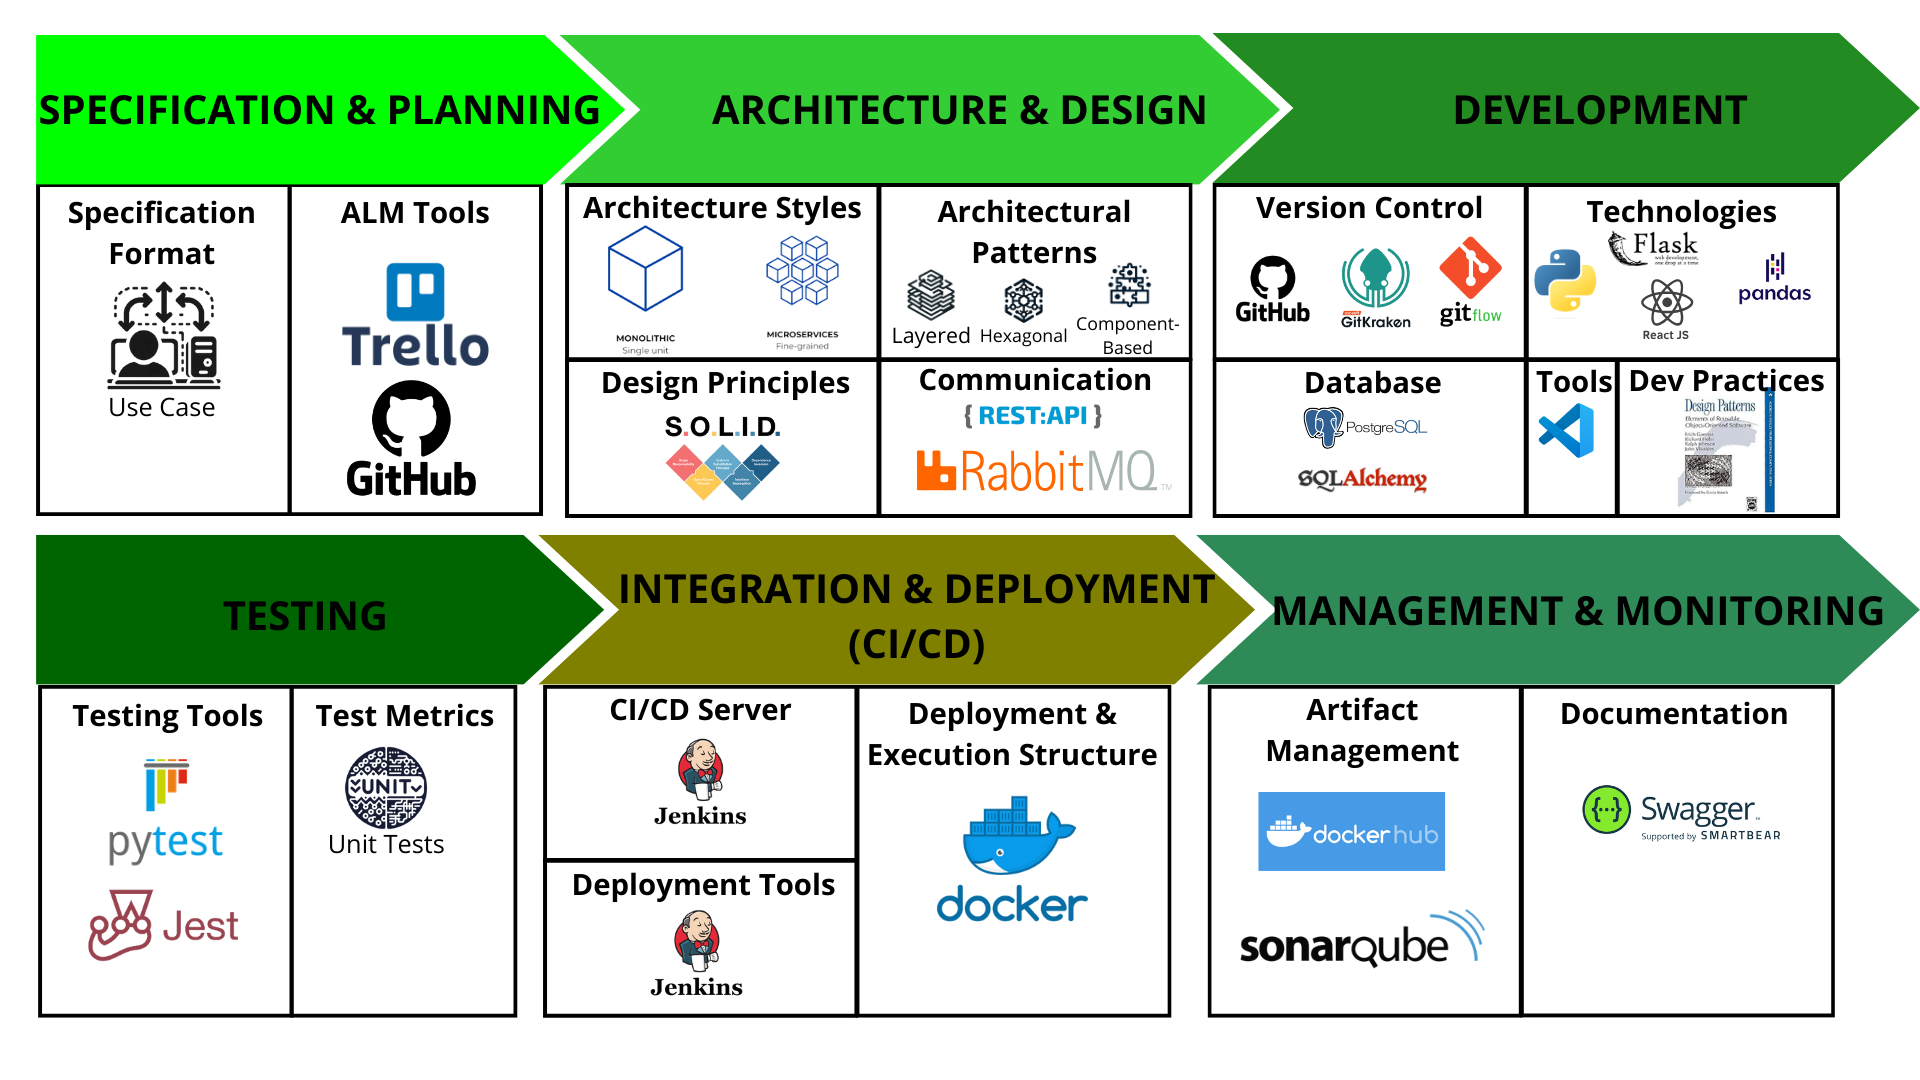
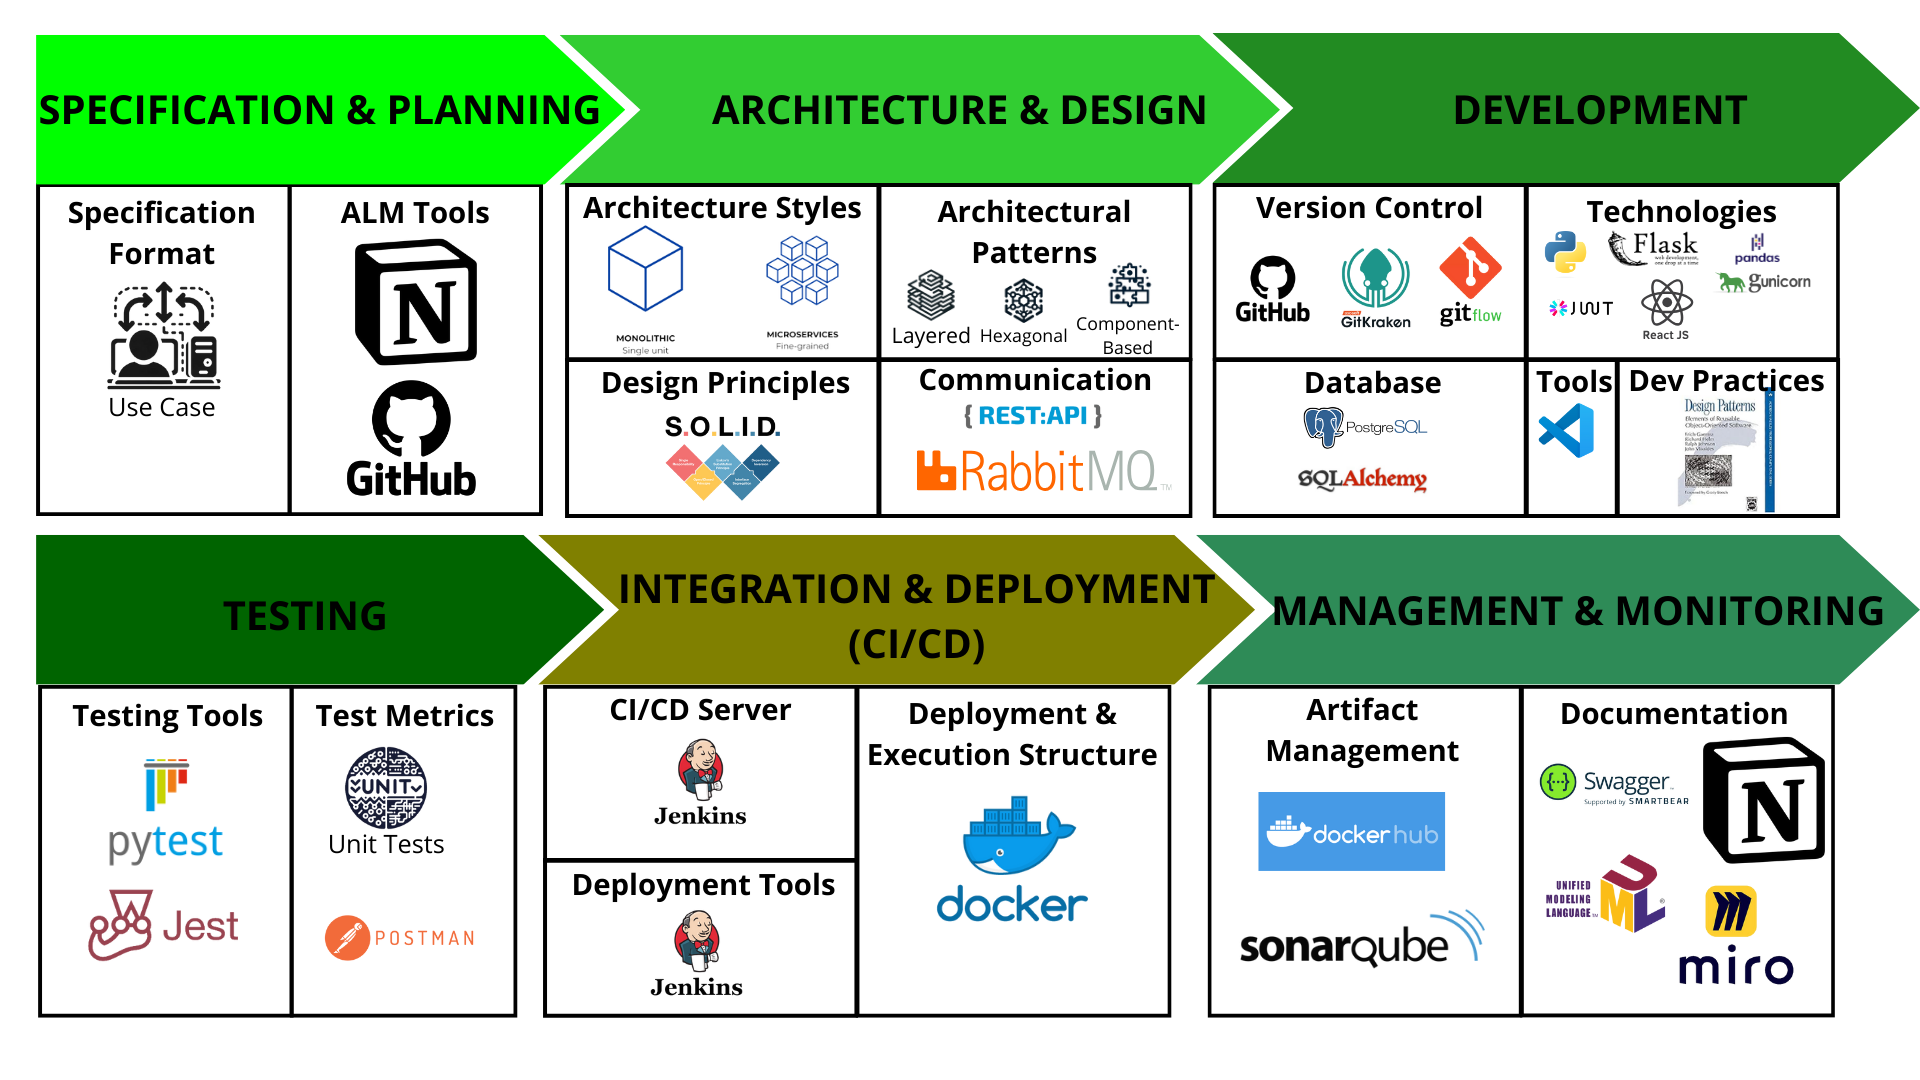
Melhoria nas seções de ALM e Documentações.
Foram adotadas maneiras diferentes de abordar a parte de ALM e Documentação, de forma que se passe a utilizar o notion.

diff --git a/specifications/fintrackr-docs-latex-project/Textuais/Capitulo02.tex b/specifications/fintrackr-docs-latex-project/Textuais/Capitulo02.tex
@@ -35,35 +35,37 @@ O projeto \textit{Fintrackr}, embora seja de pequeno porte, tem uma complexidade
 Os Casos de Uso oferecem uma representação clara das funções e interações do sistema, facilitando a comunicação entre desenvolvedores, stakeholders e usuários. Esta abordagem detalhada garante que todas as nuances e requisitos do \textit{Fintrackr} sejam capturados e desenvolvidos de forma eficaz. Ao adotar Casos de Uso, garantimos uma compreensão profunda das necessidades do usuário e uma implementação sistemática dessas necessidades.           
 
 \section{Ferramentas de ALM}
-            
+
 \begin{table}[ht]
 	\centering
 	\resizebox{\textwidth}{!}{%
-		\begin{tabular}{|c|c|c|c|c|}
+		\begin{tabular}{|c|c|c|c|c|c|}
 			\hline
-			\multirow{2}{*}{\textbf{Critério}} & \multicolumn{4}{c|}{\textbf{Ferramenta}} \\ \cline{2-5} 
-			                                       & \textbf{Jira}             & \textbf{Trello}        & \textbf{Tuleap}         & \textbf{GitLab}           \\ \hline
+			\multirow{2}{*}{\textbf{Critério}} & \multicolumn{5}{c|}{\textbf{Ferramenta}} \\ \cline{2-6} 
+			                                   & \textbf{Jira}             & \textbf{Trello}        & \textbf{Tuleap}         & \textbf{GitLab}         & \textbf{Notion}           \\ \hline
 						                        
-			\multirow{2}{*}{\textbf{Quando Usar}}  & Projetos ágeis,          & Projetos simples,      & Desenvolvimento ágil,  & Desenvolvimento e         \\
-			                                       & de médio a grande porte. & visualização Kanban. & integração contínua. & integração contínua.   \\ 
-			                                       &                           &                        & projetos open source.   &                           \\ \hline
+			\multirow{2}{*}{\textbf{Quando Usar}}  & Projetos ágeis,          & Projetos simples,      & Desenvolvimento ágil,  & Desenvolvimento e     & Geração e controle de     \\
+			                                       & de médio a grande porte. & visualização Kanban. & integração contínua. & integração contínua. & tarefas, visões múltiplas. \\ 
+			                                       &                           &                        & projetos open source.   &                       & do mesmo datasource.      \\ \hline
 						                        
-			\multirow{4}{*}{\textbf{Benefícios}}  & Flexível, integrações  & Simples, intuitivo,    & Open source,            & Integração contínua,   \\
-			                                       & amplas, poderoso.         & flexível.             & personalizável.        & gestão de código.       \\
-			                                       &                           &                        &                         & gerenciamento de projeto. \\ 
-			                                       &                           &                        &                         &                           \\ \hline
+			\multirow{4}{*}{\textbf{Benefícios}}    & Flexível, integrações  & Simples, intuitivo,    & Open source,            & Integração contínua, & Facilidade na geração e    \\
+			                                       & amplas, poderoso.         & flexível.             & personalizável.        & gestão de código.     & controle de tarefas.       \\
+			                                       &                           &                        &                         & gerenciamento de projeto. &                           \\
+			                                       &                           &                        &                         &                       &                           \\ \hline
 						                        
-			\multirow{4}{*}{\textbf{Desvantagens}} & Curva de aprendizado      & Pode ser simplista     & Pode ser complexo       & Pode ser sobrecarregado   \\
-			                                       & íngreme, pode ser caro.  & para grandes projetos. & para novatos.           & para projetos menores.    \\
-			                                       &                           &                        &                         &                           \\ 
-			                                       &                           &                        &                         &                           \\ \hline
+			\multirow{4}{*}{\textbf{Desvantagens}} & Curva de aprendizado      & Pode ser simplista     & Pode ser complexo       & Pode ser sobrecarregado & -                         \\
+			                                       & íngreme, pode ser caro.  & para grandes projetos. & para novatos.           & para projetos menores. &                           \\
+			                                       &                           &                        &                         &                       &                           \\ 
+			                                       &                           &                        &                         &                       &                           \\ \hline
 		\end{tabular}%
 	}
-	\caption{Comparação entre Jira, Trello, Tuleap e GitLab}
+	\caption{Comparação entre Jira, Trello, Tuleap, GitLab e Notion}
 	\label{tab:tool_comparison}
 \end{table}          
-    
-Dada a natureza do projeto \textit{Fintrackr}, a seleção de ferramentas para gerenciamento e desenvolvimento é crucial. O Trello, com sua versão gratuita e simplicidade, surge como uma escolha primordial. Nossa equipe já possui familiaridade com o Trello, facilitando sua integração ao fluxo de trabalho. Além disso, adotamos um \href{https://github.com/ThiagoSchumann/fintrackr-docs}{repositório no GitHub} para centralizar documentação e artefatos, oferecendo uma visão unificada do projeto. Essa combinação de Trello e GitHub é ideal para as necessidades do \textit{Fintrackr}.
+        
+
+Dada a natureza do projeto \textit{Fintrackr}, a seleção de ferramentas para gerenciamento e desenvolvimento é crucial. Optamos pelo Notion devido à sua facilidade na geração e controle de tarefas, permitindo várias visões diferentes do mesmo datasource. Além disso, o Notion também nos permite criar documentações detalhadas para nossos projetos. Complementando nossa escolha, adotamos um \href{https://github.com/ThiagoSchumann/fintrackr-docs}{repositório no GitHub} para centralizar outros aspectos da documentação e artefatos, oferecendo uma visão unificada do projeto. Essa combinação de Notion e GitHub é ideal para as necessidades do \textit{Fintrackr}.
+
 
 \section{Planejamento do desenvolvimento}
             

diff --git a/specifications/fintrackr-docs-latex-project/Textuais/Capitulo04.tex b/specifications/fintrackr-docs-latex-project/Textuais/Capitulo04.tex
@@ -110,6 +110,8 @@ A seleção de uma ferramenta adequada para gerenciamento de dependências e con
 	\label{tab:technology_comparison}
 \end{table}
 
+\par Contudo, optamos em utilizar o Docker como ferramenta de build, por oferecer vantagens como a criação de ambientes de construção consistentes, isolados e portáteis. Isso garante a reprodutibilidade, a segurança e a facilidade de integração com CI/CD. A decisão de usar o Docker depende do contexto e dos requisitos do projeto.
+
 \section{Definição de Ferramentas e Estrutura de Execução para Deploy}
 
 A implantação eficaz do \textit{Fintrackr} é crucial para garantir uma experiência de usuário contínua e robusta. Para alcançar essa eficiência, adotamos um conjunto de ferramentas líderes de mercado e definimos uma estrutura de execução que prioriza a escalabilidade, consistência e facilidade de manutenção.
@@ -128,7 +130,17 @@ A implantação eficaz do \textit{Fintrackr} é crucial para garantir uma experi
 
 \begin{itemize}
 	\item \textbf{Docker}: A contêinerização é fundamental na era moderna da computação em nuvem. O Docker nos permite encapsular nossa aplicação e todas as suas dependências em contêineres, garantindo uma execução consistente em todos os ambientes, desde o desenvolvimento até a produção.
+    \par Será utilizada a estrutura padrão do Docker, seguindo os seguintes passos:
 \end{itemize}
+\begin{enumerate}
+  \item Instalação o Docker no sistema operacional.
+  \item Inserido uma imagem.
+  \item Contruir uma Imagem (Opcional): Pode ser criada imagem personalizada com um Dockerfile, se necessário.
+  \item Usar o comando \texttt{docker build} para criar a imagem.
+  \item Usar o comando \texttt{docker run} para iniciar um contêiner com base na imagem criada.
+\end{enumerate}
+
+
 \section{GitFlow}
 O \textit{GitFlow} é uma estratégia de fluxo de trabalho do Git que define uma estrutura robusta para projetos, facilitando o desenvolvimento paralelo, a colaboração em equipe e o lançamento de versões estáveis. A estratégia é composta por várias \textit{branches} que têm propósitos específicos. A seguir, detalhamos essas \textit{branches} e suas interações:
 
@@ -214,4 +226,7 @@ O GitFlow, com sua estrutura clara e regras definidas, ajuda as equipes a gerenc
 \par Em nosso projeto, usaremos o SonarQube com o Docker, pois como vimos em sala é muito prático levantá-lo junto ao Docker, Ainda é muito  vantajoso porque permite analisar e melhorar a qualidade do código fonte, identificar vulnerabilidades de segurança, detectar bugs e defeitos, manter padrões de codificação consistentes, integrar análises de código ao pipeline de desenvolvimento, fornecer feedback imediato aos desenvolvedores, rastrear o histórico das análises, personalizar a configuração, gerar relatórios detalhados e, em última análise, aprimorar a qualidade do software. Isso contribui para a segurança, confiabilidade e desempenho de aplicativos em containers Docker.
 
 \section{Documentação}
+
+A documentação é um aspecto crucial de qualquer projeto, e no \textit{Fintrackr} não é diferente. Para além das especificações e detalhes técnicos da API, que utilizaremos o Swagger, o Notion desempenhará um papel fundamental como uma plataforma de documentação complementar. No Notion, criaremos uma página dedicada para manter informações pertinentes do projeto, incluindo eventuais documentações que auxiliem no desenvolvimento. Esta abordagem centralizada no Notion garantirá que toda a equipe tenha acesso fácil e rápido a informações críticas, melhorando a eficiência e a colaboração.
+
 O Swagger é uma poderosa ferramenta para a construção de APIs RESTful, proporcionando uma suite completa para desenho, construção, documentação e uso de APIs. Ele fornece um conjunto de recursos que auxiliam os desenvolvedores a criar APIs consistentes, testáveis e padronizadas. Um dos componentes mais valiosos do Swagger é o Swagger UI, que fornece uma interface visual para interagir com a API, permitindo que os desenvolvedores e os usuários finais visualizem e testem as funcionalidades da API de forma intuitiva. No contexto do \textit{FinTrackr}, o Swagger será inestimável para documentar e testar as várias endpoints da API. Isso não só facilitará a integração entre o front-end e o back-end, mas também fornecerá uma referência clara para os desenvolvedores e partes interessadas sobre como a API funciona, quais dados ela aceita e quais respostas podem ser esperadas. Ao adotar o Swagger no \textit{FinTrackr}, garantimos uma abordagem padronizada e eficiente para a construção e documentação da API.
